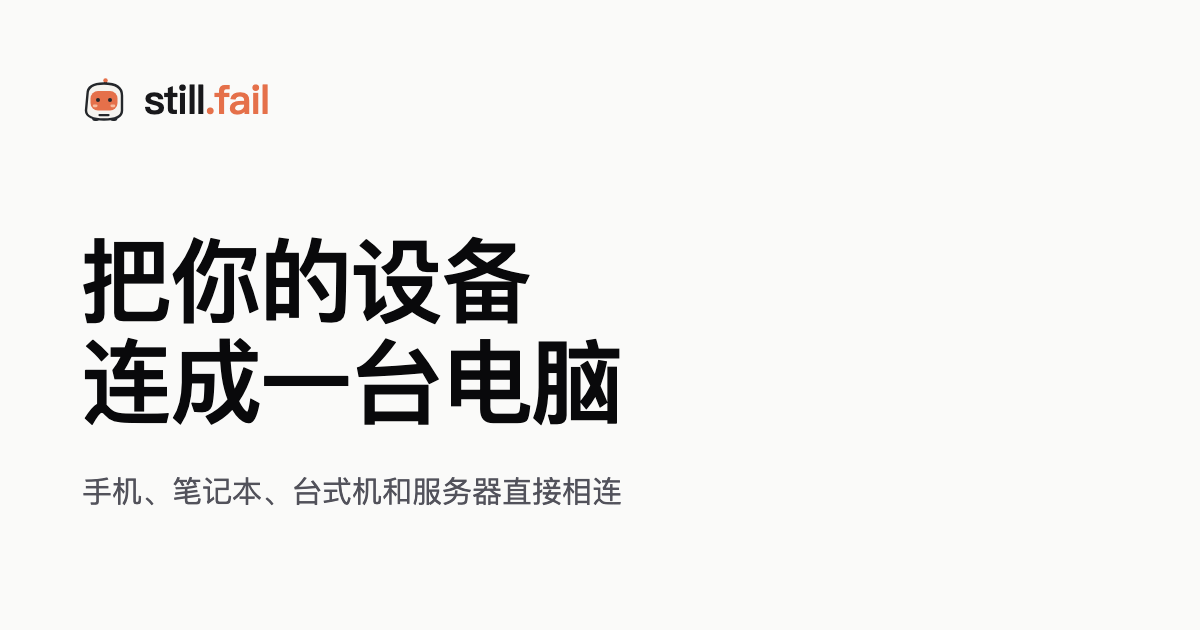
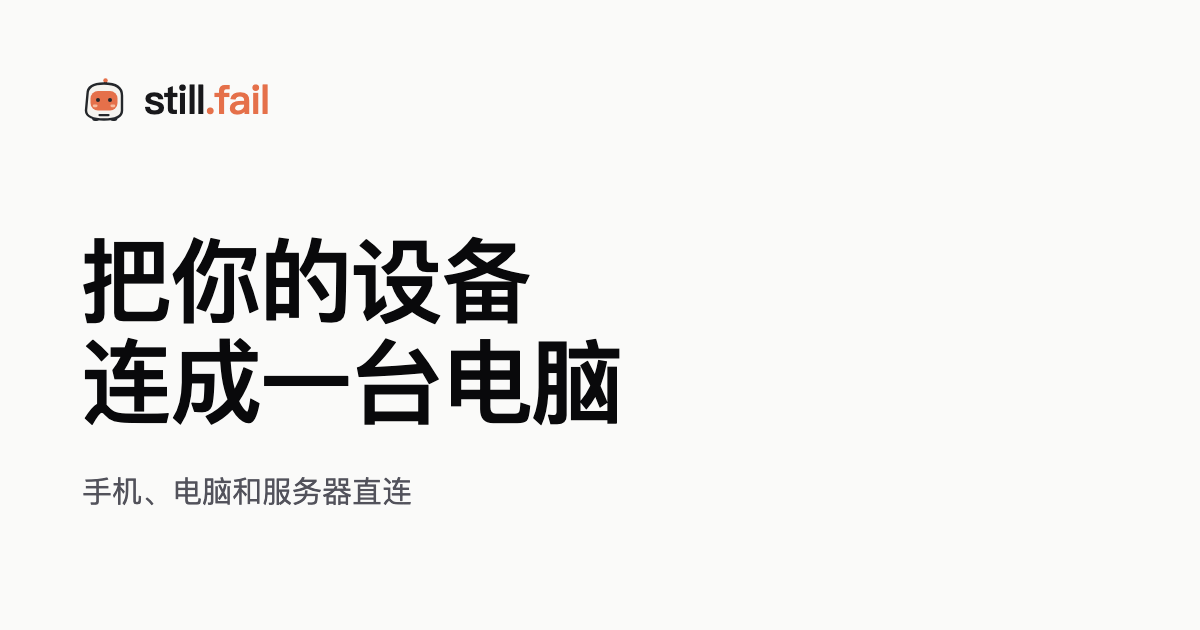
site: fewer words

Changed region(s): [[0.1233, 0.754, 0.5242, 0.8143]]

diff --git a/web/src/site/words.ts b/web/src/site/words.ts
@@ -8,18 +8,18 @@ const ZH = {
   download: "下载", open: "打开", appleSilicon: "Apple 芯片", downloadGo: "下载 →", androidQr: "下载 Android 版的二维码", androidScan: "Android 扫码下载",
   other: "English", otherHref: "/en/",
   title: ["把你的设备", "连成一台电脑"],
-  lede: "手机、笔记本、台式机和服务器直接相连。在其中任何一台上，都能打开另一台的文件，用它登录的订阅，让它跑任务。",
+  lede: "手机、电脑和服务器直连。在任何一台上，都能用其他几台的文件和订阅。",
   start: "开始使用",
   steps: [
-    { title: "设备两两直连", text: "数据不经服务器中转，连不上时才走加密中继" },
-    { title: "像一台电脑一样用", text: "所有设备在同一个 still.fail 里，哪台的文件、订阅和任务都在这里" },
-    { title: "手机上也一样", text: "在手机上打开，看到的是同样这几台设备" },
+    { title: "两两直连", text: "连不上时走加密中继" },
+    { title: "像一台电脑", text: "每台的文件、订阅和任务都在这里" },
+    { title: "手机上也一样", text: "打开就是这几台设备" },
   ],
   /** The demo's machines as it names them (demo/station.ts; demo/english.ts in English). */
   machines: ["笔记本", "Studio", "Mini", "服务器"],
   phoneTitle: "still.fail 手机版",
   install: ["一条命令", "加入一台电脑"],
-  installLede: "在那台电脑上运行。它已登录的账号和订阅，之后在每台设备上都能用",
+  installLede: "它登录的账号和订阅，每台设备都能用",
   installSteps: ["→ 下载 still.fail station · 加入 workspace「Acme」", "→ 注册为登录启动的服务", "✓ station 已上线"],
   web: "网页版", terms: "服务条款", privacy: "隐私政策", trademark: "商标", legal: "",
   theme: { label: "主题", system: "跟随系统", light: "浅色", dark: "深色" },
@@ -29,17 +29,17 @@ const EN: typeof ZH = {
   download: "Download", open: "Open", appleSilicon: "Apple silicon", downloadGo: "Download →", androidQr: "A code to scan for the Android app", androidScan: "Scan for Android",
   other: "中文", otherHref: "/",
   title: ["Join your devices", "into one computer"],
-  lede: "Your phone, laptops, desktops and servers connect directly. On any one of them, open another's files, use the subscriptions it's signed in to, and have it run tasks.",
+  lede: "Phones, computers and servers, directly connected. On any one, use the others' files and subscriptions.",
   start: "Get started",
   steps: [
-    { title: "Devices connect directly", text: "Not through a server; through an encrypted relay only when they can't" },
-    { title: "Use them as one computer", text: "All of them in one still.fail: each one's files, subscriptions and tasks in one place" },
-    { title: "The same on your phone", text: "Open it on your phone and see the same devices" },
+    { title: "Connected directly", text: "Through an encrypted relay when they can't" },
+    { title: "Like one computer", text: "Every device's files, subscriptions and tasks, here" },
+    { title: "The same on your phone", text: "Open it and see the same devices" },
   ],
   machines: ["Laptop", "Studio", "Mini", "Server"],
   phoneTitle: "still.fail on a phone",
   install: ["One command", "adds a computer"],
-  installLede: "Run it on that computer. The accounts and subscriptions signed in there can then be used from all your devices.",
+  installLede: "Its accounts and subscriptions, usable from every device.",
   installSteps: ["→ Downloading still.fail station · joining workspace “Acme”", "→ Registering it to start at login", "✓ Station online"],
   web: "Web app", terms: "Terms", privacy: "Privacy", trademark: "Trademark", legal: "/en",
   theme: { label: "Theme", system: "System", light: "Light", dark: "Dark" },

diff --git a/site/index.html b/site/index.html
@@ -7,9 +7,9 @@
      web/src/site/Site.tsx). -->
 <script>try{var l=localStorage.getItem("stillfail.site.lang");if(l!=="zh"&&(l==="en"||!/^zh/i.test(navigator.language||"")))location.replace("/en/"+location.search)}catch(e){}</script>
 <title>still.fail · 把你的设备连成一台电脑</title>
-<meta name="description" content="still.fail 让手机、笔记本、台式机和服务器直接相连：在其中任何一台上，都能打开另一台的文件，用它登录的订阅，让它跑任务。">
+<meta name="description" content="still.fail 让手机、电脑和服务器直连。在任何一台上，都能用其他几台的文件和订阅。">
 <meta property="og:title" content="still.fail · 把你的设备连成一台电脑">
-<meta property="og:description" content="手机、笔记本、台式机和服务器直接相连，像一台电脑一样用。">
+<meta property="og:description" content="手机、电脑和服务器直连，像一台电脑。">
 <meta property="og:image" content="https://still.fail/og-image.png">
 <meta property="og:image:width" content="1200">
 <meta property="og:image:height" content="630">

diff --git a/site/en/index.html b/site/en/index.html
@@ -4,9 +4,9 @@
 <meta charset="utf-8">
 <meta name="viewport" content="width=device-width,initial-scale=1">
 <title>still.fail · Join your devices into one computer</title>
-<meta name="description" content="still.fail connects your phone, laptops, desktops and servers directly. On any one of them, open another's files, use the subscriptions it's signed in to, and have it run tasks.">
+<meta name="description" content="still.fail connects phones, computers and servers directly. On any one, use the others' files and subscriptions.">
 <meta property="og:title" content="still.fail · Join your devices into one computer">
-<meta property="og:description" content="Your phone, laptops, desktops and servers, connected directly and used as one computer.">
+<meta property="og:description" content="Phones, computers and servers, directly connected, like one computer.">
 <meta property="og:image" content="https://still.fail/og-image-en.png">
 <meta property="og:image:width" content="1200">
 <meta property="og:image:height" content="630">
